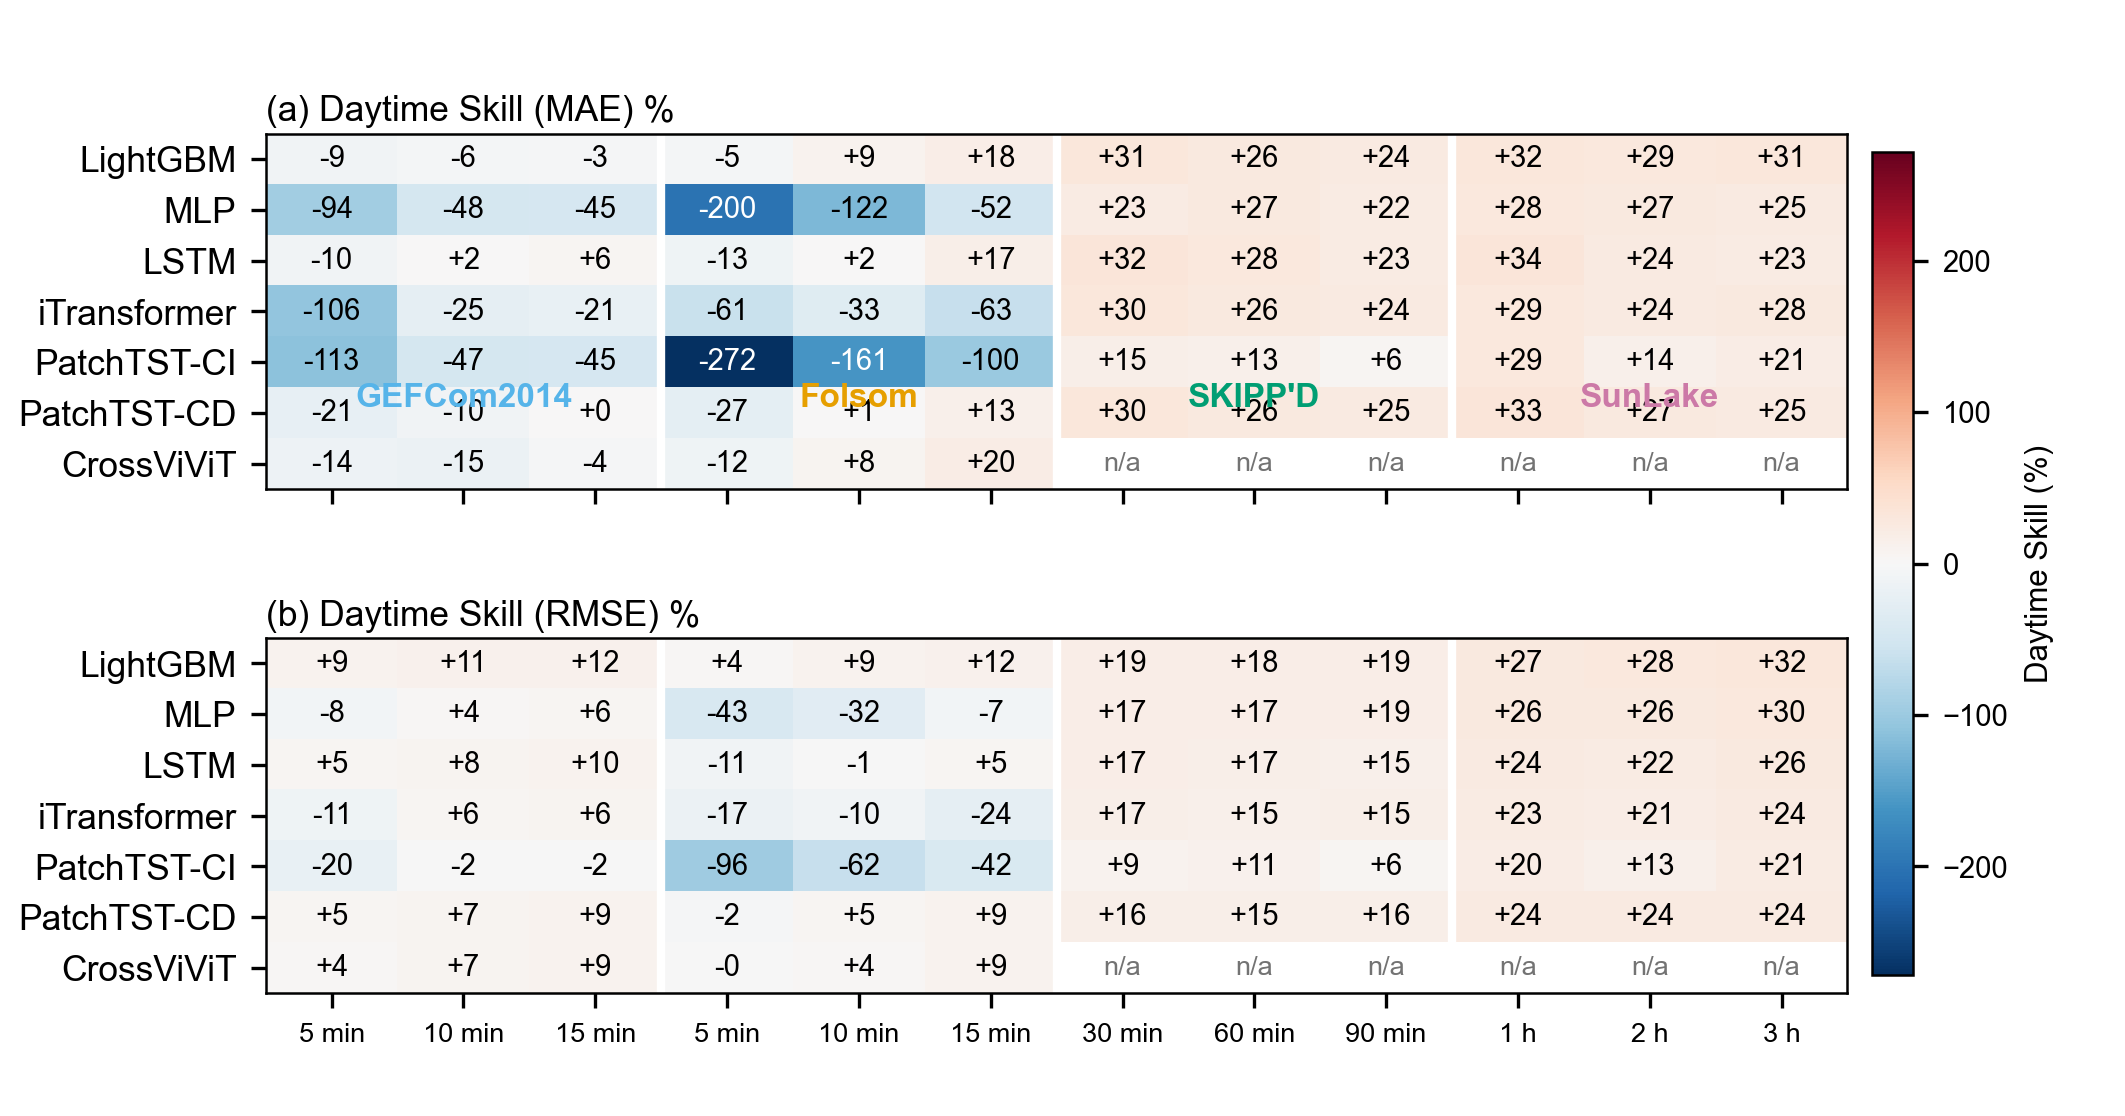
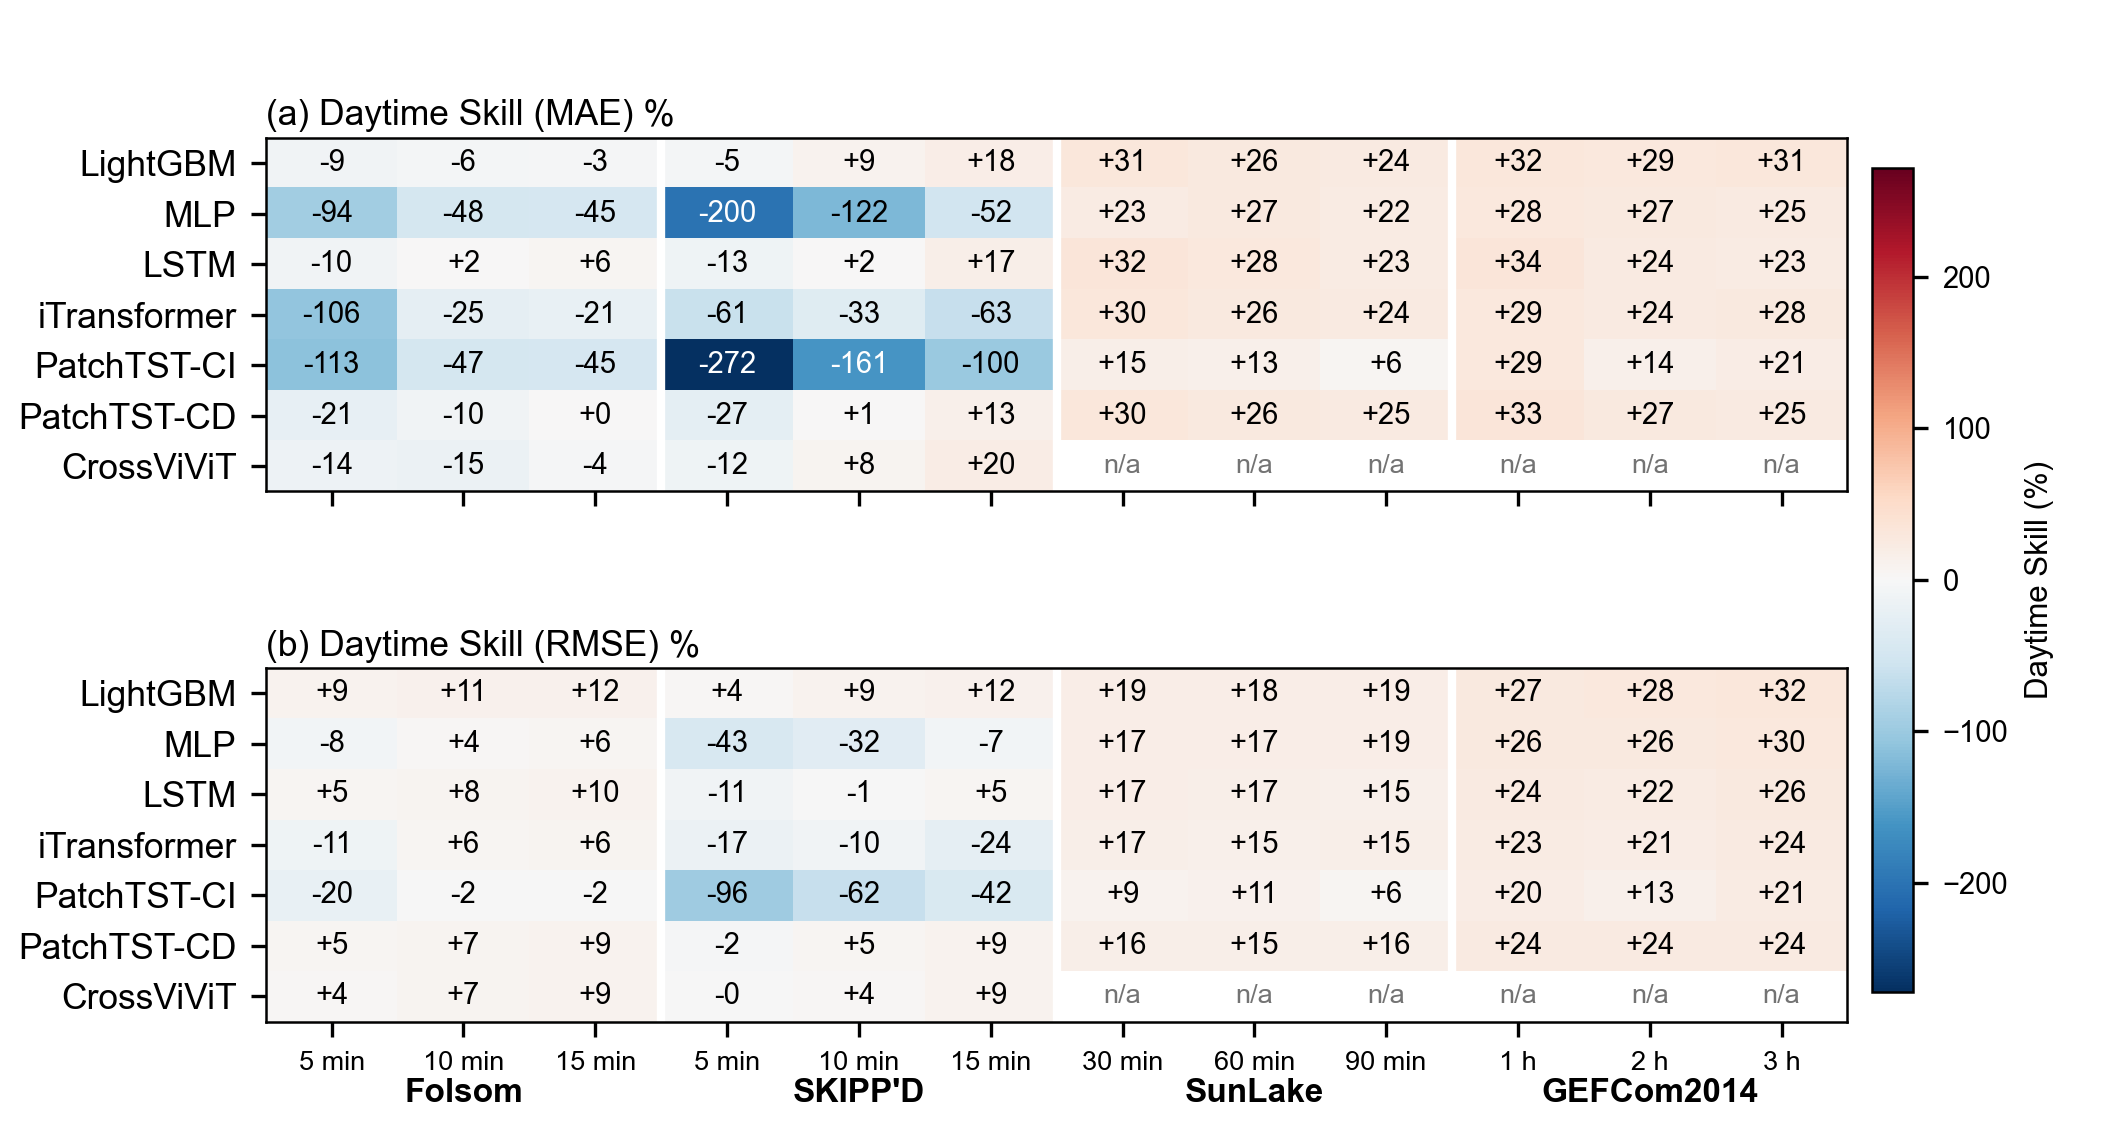
viz(essd-fig2): group labels moved BELOW the panel-(b) ticks in axis fraction space (y=-0.16 — can no longer overlay panel (a)); order fixed to the cell layout (Folsom, SKIPP'D, SunLake, GEFCom2014); labels black per user spec

diff --git a/scripts/plot_essd_figures.py b/scripts/plot_essd_figures.py
@@ -218,8 +218,8 @@ def fig2() -> None:
     # separator on the tick row (ESSD-style grouped axis).
     labels = [f"{ph} {unit}" for _, _, ph, unit in cells]
 
-    fig, axes = plt.subplots(2, 1, figsize=(WIDTH_MM * mm, HEIGHT_MM * mm * 1.05),
-                             sharex=True, gridspec_kw={"hspace": 0.42})
+    fig, axes = plt.subplots(2, 1, figsize=(WIDTH_MM * mm, HEIGHT_MM * mm * 1.08),
+                             sharex=True, gridspec_kw={"hspace": 0.50})
     vmax = 0.0
     mats = []
     for metric in ("Skill_MAE_pct", "Skill_RMSE_pct"):
@@ -256,13 +256,19 @@ def fig2() -> None:
     axes[1].set_xticks(range(len(labels)), labels,
                        fontsize=TEXT_SIZE_PT - 2)     # 6.5 pt horizon-only ticks
     axes[1].set_xlabel("")   # bottom caption row removed per user request
-    # Grouped dataset axis: one name per 3-column block + '//' separators.
-    for g, ds in enumerate(DS_ORDER):
+    # Grouped dataset axis: one name per 3-column block, BELOW the horizon
+    # ticks (axes-fraction y < 0 so it can never climb onto panel (a));
+    # order follows the cell layout: Folsom, SKIPP'D, SunLake, GEFCom2014.
+    cell_ds_order = []
+    for ds, _, _, _ in cells:
+        if ds not in cell_ds_order:
+            cell_ds_order.append(ds)
+    for g, ds in enumerate(cell_ds_order):
         c0, c1 = 3 * g, 3 * g + 2
-        axes[1].text((c0 + c1) / 2, 1.72, DS_LABELS[ds],
+        axes[1].text((c0 + c1) / 2, -0.16, DS_LABELS[ds],
                      transform=axes[1].get_xaxis_transform(),
                      ha="center", va="top", fontsize=TEXT_SIZE_PT - 0.5,
-                     color=DS_COLORS[ds], fontweight="bold")
+                     color="black", fontweight="bold")
         if g > 0:  # separator between groups (on both heatmap panels)
             for ax in axes:
                 ax.axvline(c0 - 0.5, color="white", linewidth=2.0)
